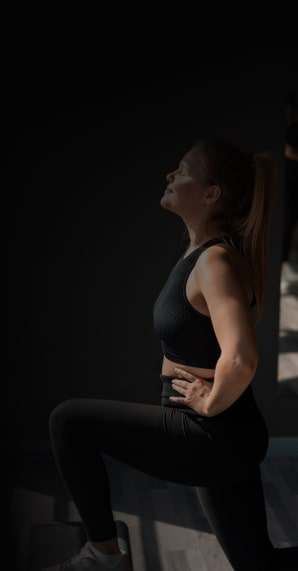
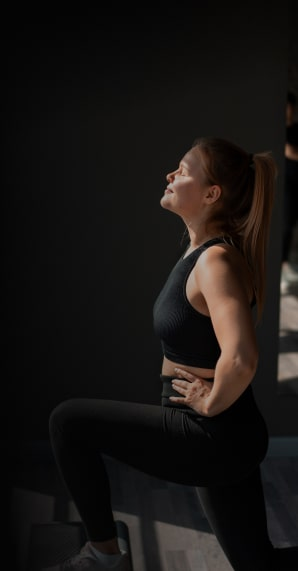
add welcome page

diff --git a/src/pages/Welcome/Welcom.styled.jsx b/src/pages/Welcome/Welcom.styled.jsx
@@ -1,8 +1,5 @@
 import styled from '@emotion/styled';
 import { theme } from 'styles/theme';
-import bg from 'images/bg';
-
-const { bg1Desktop1x, bg1Desktop2x, bg1Mobile1x, bg1Mobile2x } = bg;
 
 export const Wrapper = styled.div`
   margin-top: 52px;
@@ -11,28 +8,22 @@ export const Wrapper = styled.div`
   }
 `;
 
-export const Bg = styled.div`
-  height: 100vh;
-  width: 100%;
-  background-size: cover;
-  background-repeat: no-repeat;
-  background-position: center -80px;
-  background-image: linear-gradient(80deg, #040404 -2.45%, rgba(4, 4, 4, 0) 68.17%),
-    url(${bg1Mobile1x});
-  @media screen and (min-device-pixel-ratio: 2), (min-resolution: 192dpi), (min-resolution: 2dppx) {
-    background-image: linear-gradient(80deg, #040404 -2.45%, rgba(4, 4, 4, 0) 68.17%),
-      url(${bg1Mobile2x});
-  }
-
+export const PictureBg = styled.picture`
+  position: absolute;
+  width: 70%;
+  top: 80%;
+  left: 30%;
+  z-index: -1;
+  background-image: linear-gradient(170deg, #040404 3.66%, rgba(4, 4, 4, 0) 19.15%),
+    linear-gradient(73deg, #040404 6.11%, rgba(4, 4, 4, 0) 66.68%);
   @media screen and (min-width: 768px) {
-    background-image: linear-gradient(80deg, #040404 -2.45%, rgba(4, 4, 4, 0) 68.17%),
-      url(${bg1Desktop1x});
-    @media screen and (min-device-pixel-ratio: 2),
-      (min-resolution: 192dpi),
-      (min-resolution: 2dppx) {
-      background-image: linear-gradient(80deg, #040404 -2.45%, rgba(4, 4, 4, 0) 68.17%),
-        url(${bg1Desktop2x});
-    }
+    width: 100%;
+    top: 60%;
+    left: 40%;
+  }
+  @media screen and (min-width: 1440px) {
+    top: 0;
+    left: 54%;
   }
 `;
 
@@ -50,6 +41,7 @@ export const Title = styled.h1`
   }
   @media screen and (min-width: 1440px) {
     padding-top: 152px;
+    width: 598px;
   }
 `;
 
@@ -83,7 +75,15 @@ export const SignIn = styled.a`
 
 export const Picture = styled.picture`
   position: absolute;
-  top: 19%;
+  top: 53%;
   left: 3%;
   z-index: -1;
+  @media screen and (min-width: 768px) {
+    top: 50%;
+    left: 2%;
+  }
+  @media screen and (min-width: 1440px) {
+    top: 52%;
+    left: 5%;
+  }
 `;

diff --git a/src/pages/Welcome/Welcom.jsx b/src/pages/Welcome/Welcom.jsx
@@ -1,7 +1,8 @@
 import { Container, Header } from 'components';
-import { Bg, Picture, SignIn, SignUp, Title, Wrapper } from './Welcom.styled';
+import { Picture, PictureBg, SignIn, SignUp, Title, Wrapper } from './Welcom.styled';
 import bg from 'images/bg';
-const { lineD1x, lineD2x, lineM1x, lineM2x } = bg;
+const { bg1Desktop1x, bg1Desktop2x, bg1Mobile1x, bg1Mobile2x, lineD1x, lineD2x, lineM1x, lineM2x } =
+  bg;
 
 export default function Welcome() {
   return (
@@ -11,7 +12,7 @@ export default function Welcome() {
       <Picture>
         <source
           type="image/png"
-          media="(max-width: 767.99px)"
+          media="(max-width: 767px)"
           srcSet={`${lineM1x} 1x, ${lineM2x} 2x`}
         />
         <source
@@ -19,18 +20,29 @@ export default function Welcome() {
           media="(min-width: 768px)"
           srcSet={`${lineD1x} 1x, ${lineD2x} 2x`}
         />
-        <img src={`${lineM1x}`} alt="logo" />
+        <img src={`${lineD1x}`} alt="logo" />
       </Picture>
-      <Bg>
-        <Wrapper>
-          <SignUp href="/register" rel="noreferrer noopener">
-            Sign Up
-          </SignUp>
-          <SignIn href="/login" rel="noreferrer noopener">
-            Sign In
-          </SignIn>
-        </Wrapper>
-      </Bg>
+      <Wrapper>
+        <SignUp href="/register" rel="noreferrer noopener">
+          Sign Up
+        </SignUp>
+        <SignIn href="/login" rel="noreferrer noopener">
+          Sign In
+        </SignIn>
+      </Wrapper>
+      <PictureBg>
+        <source
+          type="image/png"
+          media="(max-width: 767px)"
+          srcSet={`${bg1Mobile1x} 1x, ${bg1Mobile2x} 2x`}
+        />
+        <source
+          type="image/png"
+          media="(min-width: 768px)"
+          srcSet={`${bg1Desktop1x} 1x, ${bg1Desktop2x} 2x`}
+        />
+        <img src={`${bg1Desktop1x}`} alt="logo" />
+      </PictureBg>
     </Container>
   );
 }

diff --git a/src/components/Container/Container.styled.jsx b/src/components/Container/Container.styled.jsx
@@ -1,6 +1,7 @@
 import styled from '@emotion/styled';
 
 export const Container = styled.div`
+  position: relative;
   width: 100%;
   margin: 0 auto;
   padding: 0 20px;
